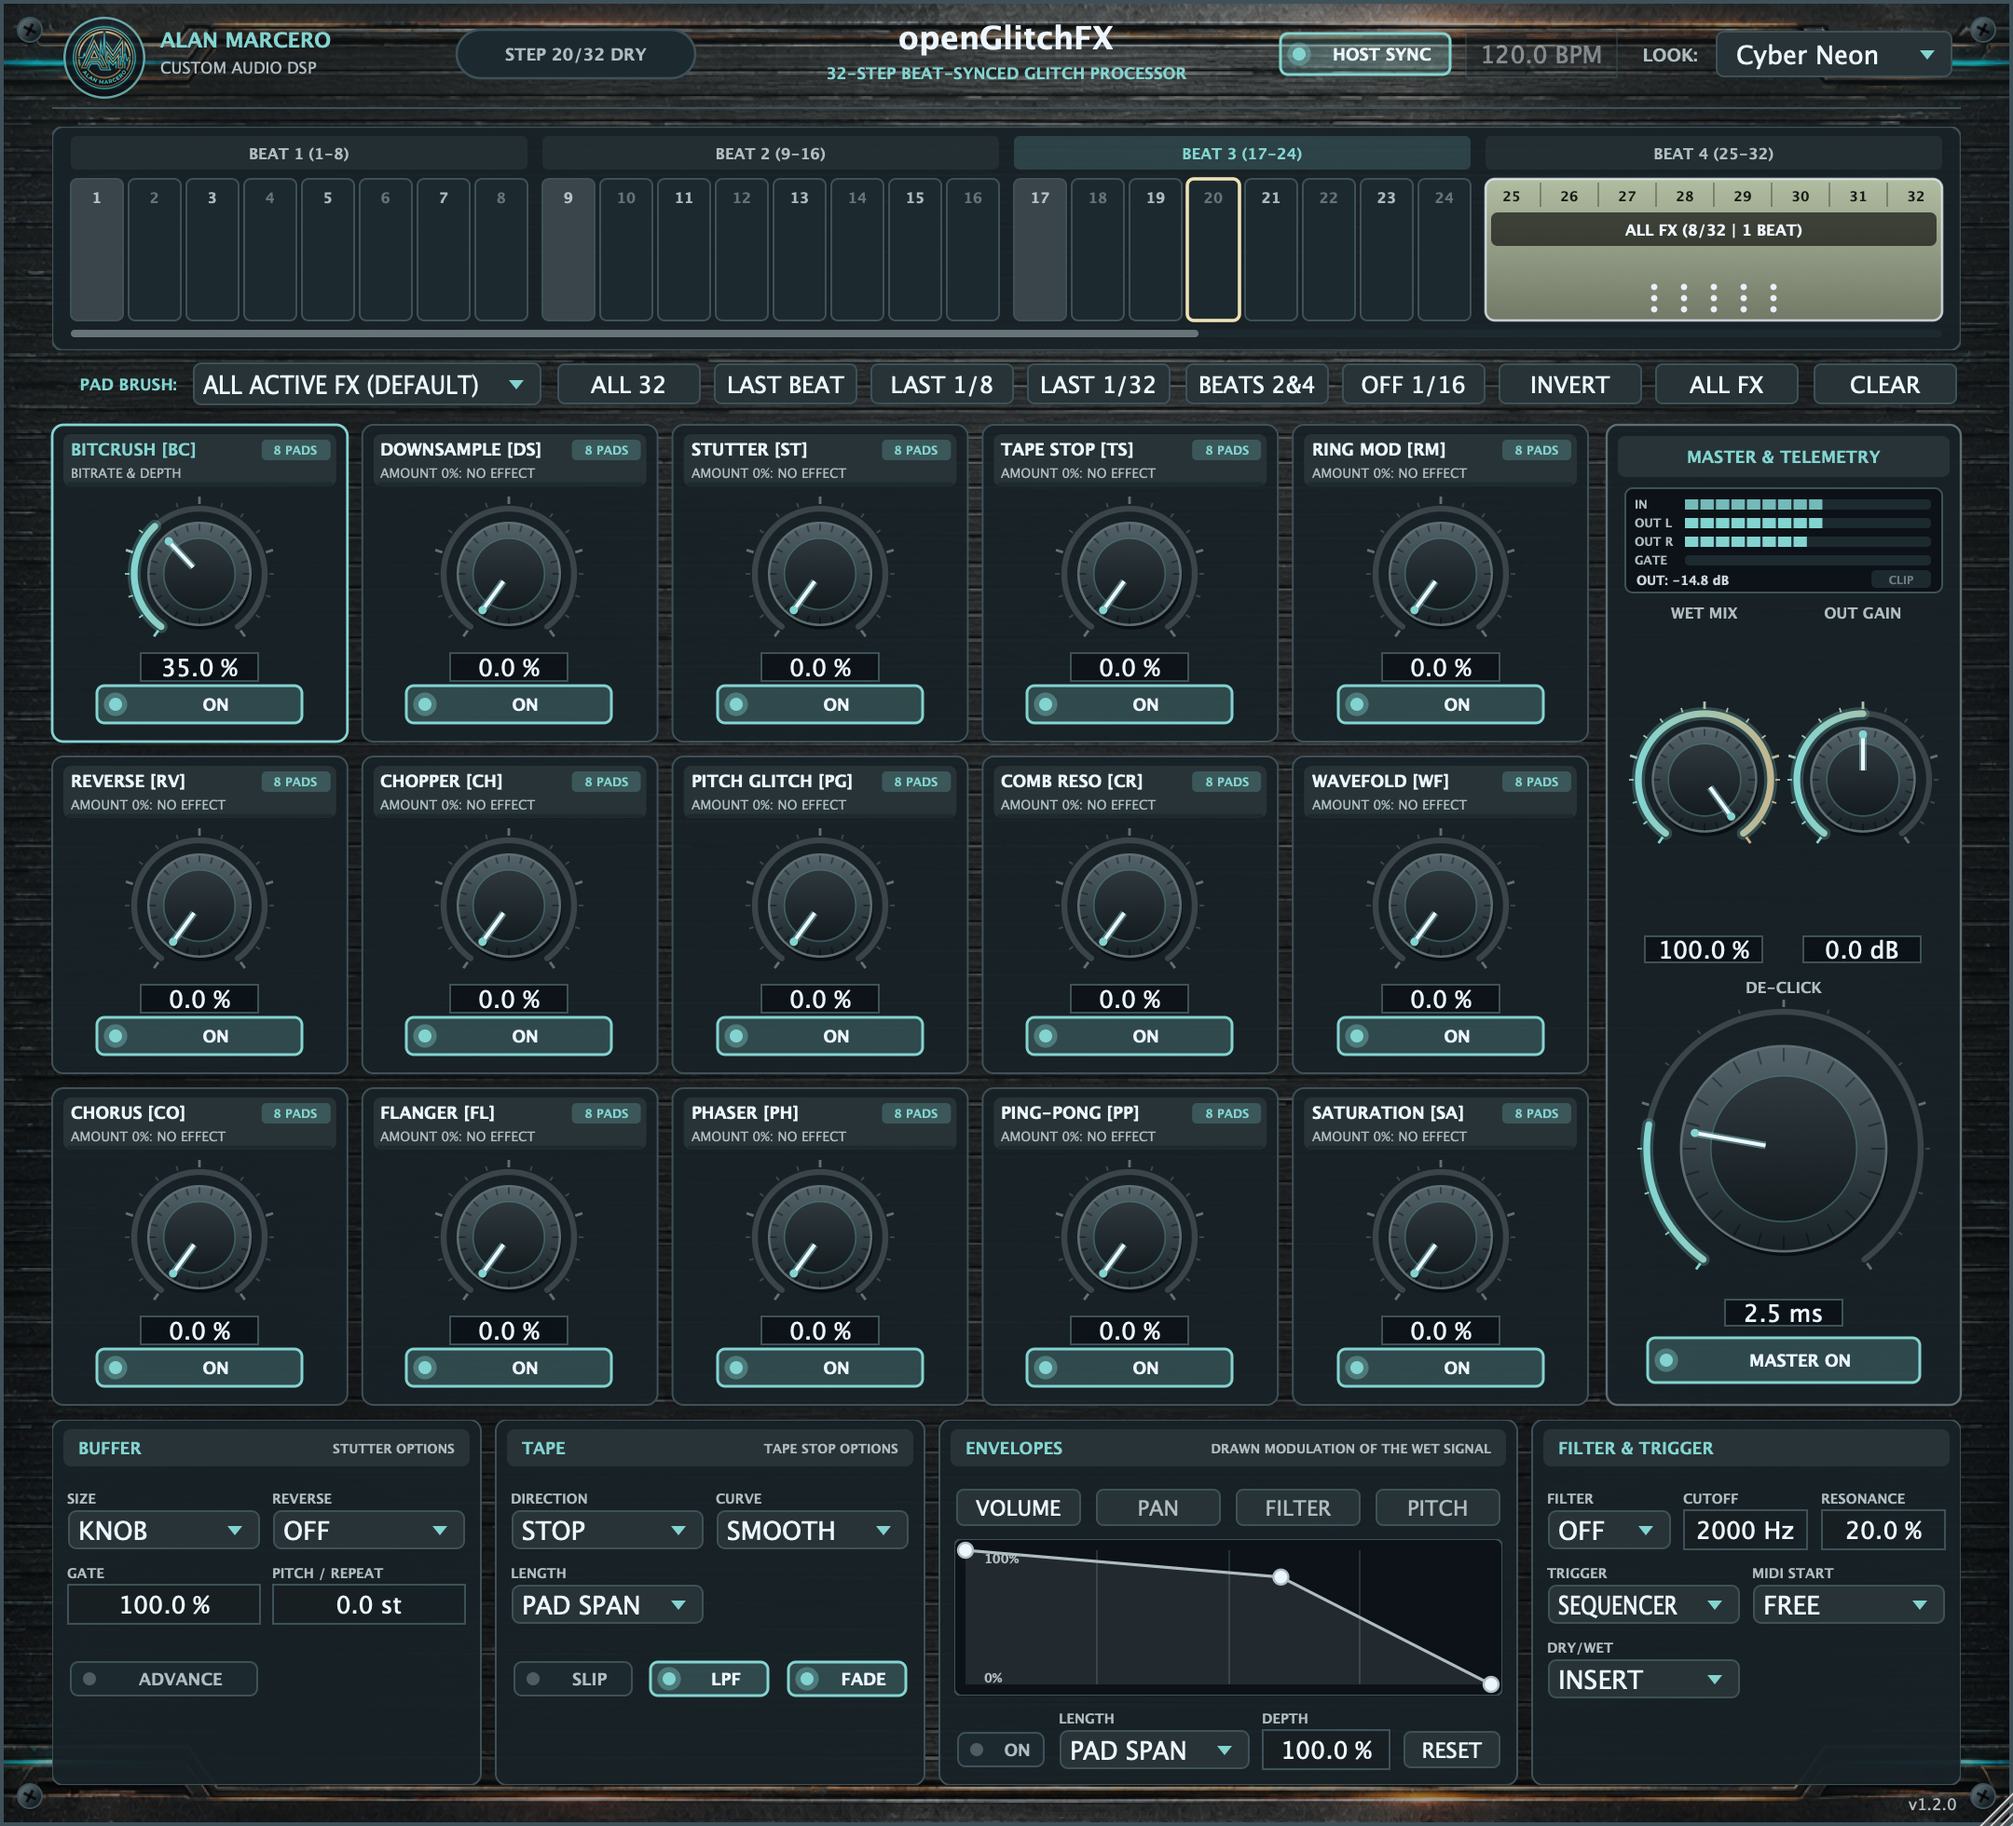
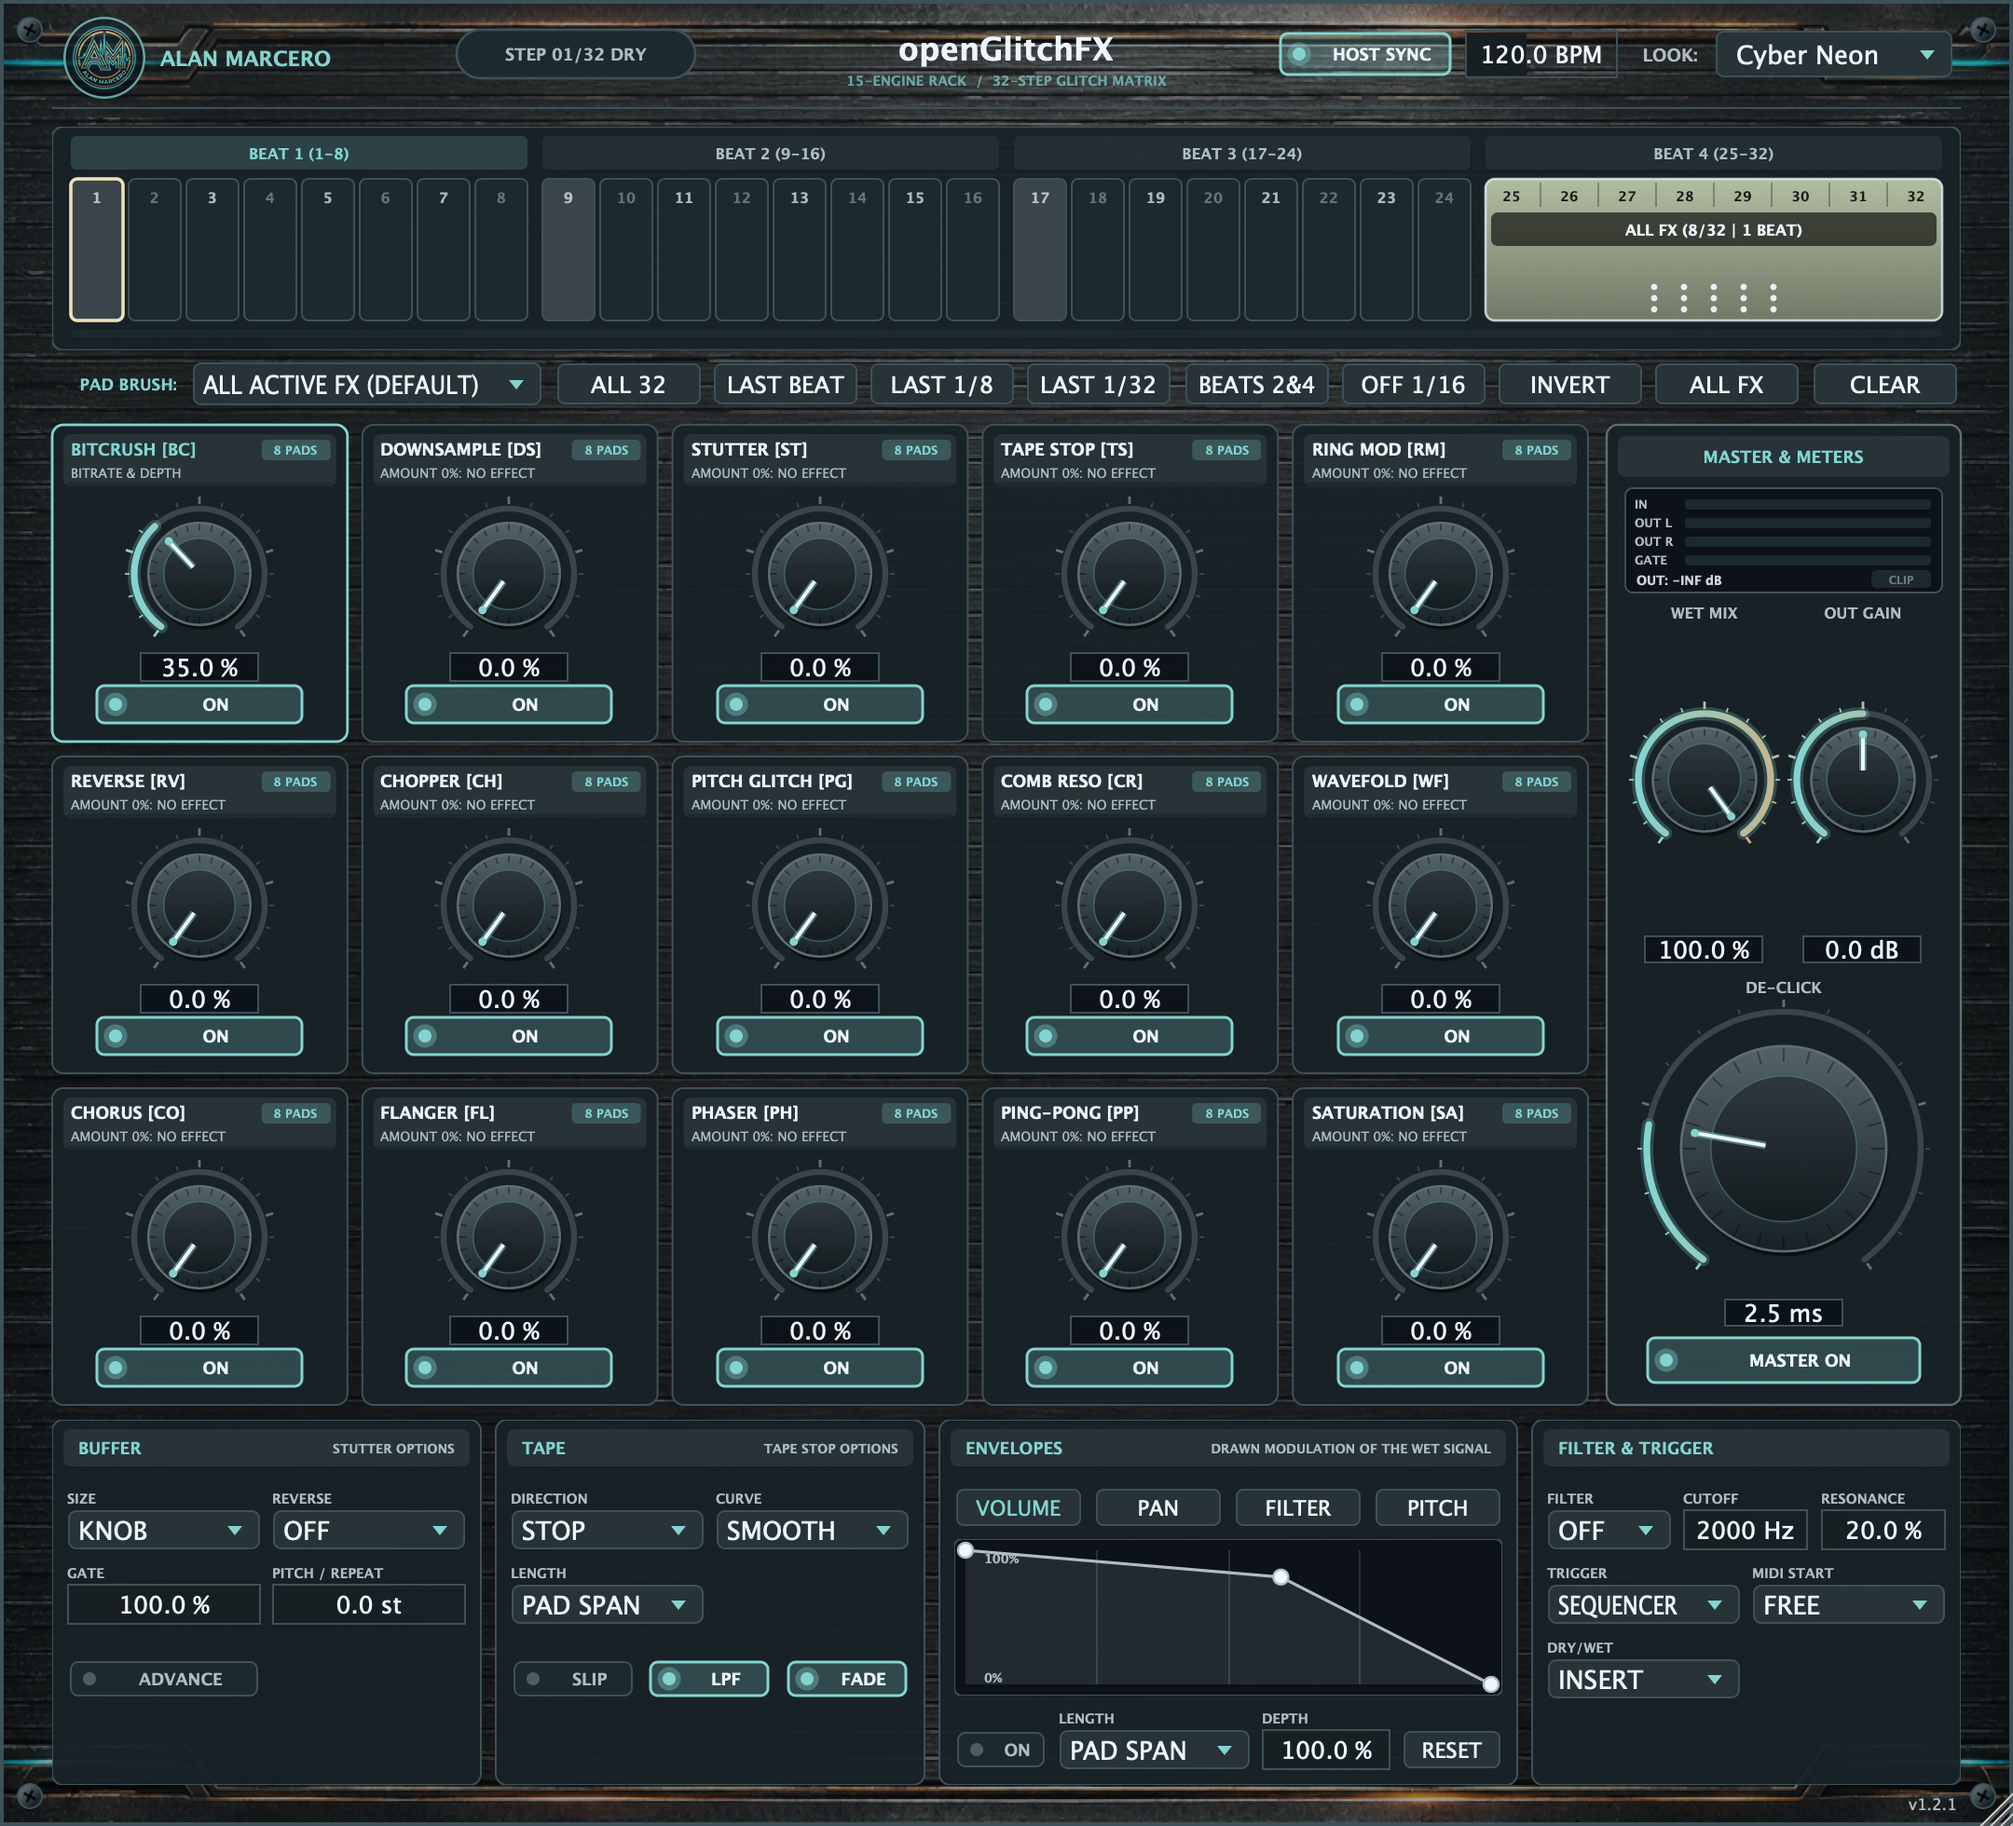
Warm ping-pong echo feedback saturation and add header matrix badge

diff --git a/Tests/PluginStateTests.cpp b/Tests/PluginStateTests.cpp
@@ -98,3 +98,21 @@ TEST_CASE("The host is told to render the enabled echo tail", "[plugin][tail]") 
     amount->setValueNotifyingHost(0.0f);
     REQUIRE_THAT(processor.getTailLengthSeconds(), Catch::Matchers::WithinAbs(0, 0));
 }
+
+TEST_CASE("Editor renders native UI screenshot", "[plugin][gui]") {
+    juce::ScopedJuceInitialiser_GUI gui;
+    OpenGlitchFXProcessor processor;
+    processor.prepareToPlay(48000, 512);
+    std::unique_ptr<juce::AudioProcessorEditor> editor(processor.createEditor());
+    REQUIRE(editor != nullptr);
+    const auto snapshot = editor->createComponentSnapshot(editor->getLocalBounds(), false, 2.0f);
+    REQUIRE(snapshot.isValid());
+    REQUIRE(snapshot.getWidth() == 2160);
+    REQUIRE(snapshot.getHeight() == 1960);
+    juce::File file = juce::File::getCurrentWorkingDirectory().getChildFile("assets/native-ui.png");
+    file.deleteFile();
+    juce::FileOutputStream stream(file);
+    REQUIRE(stream.openedOk());
+    juce::PNGImageFormat png;
+    REQUIRE(png.writeImageToStream(snapshot, stream));
+}

diff --git a/Source/Core/GlitchEffects.cpp b/Source/Core/GlitchEffects.cpp
@@ -836,8 +836,12 @@ void PingPongEchoEffect::processSample(float amount, double bpm, float& left, fl
     damp_[0] += damping * (dL - damp_[0]);
     damp_[1] += damping * (dR - damp_[1]);
     const float feedback = 0.2f + 0.55f * amt;
-    delay_[0][static_cast<size_t>(writePos_)] = 0.5f * (left + right) + feedback * std::tanh(damp_[1]);
-    delay_[1][static_cast<size_t>(writePos_)] = feedback * std::tanh(damp_[0]);
+    auto warmSaturate = [](float v) noexcept -> float {
+        const float s = std::tanh(v);
+        return s + 0.04f * s * std::abs(s);
+    };
+    delay_[0][static_cast<size_t>(writePos_)] = 0.5f * (left + right) + feedback * warmSaturate(damp_[1]);
+    delay_[1][static_cast<size_t>(writePos_)] = feedback * warmSaturate(damp_[0]);
     writePos_ = (writePos_ + 1) % static_cast<int>(delay_[0].size());
     left = left * (1.0f - 0.4f * amt) + dL * 0.6f * amt;
     right = right * (1.0f - 0.4f * amt) + dR * 0.6f * amt;

diff --git a/Source/Plugin/PluginEditor.cpp b/Source/Plugin/PluginEditor.cpp
@@ -293,7 +293,10 @@ void OpenGlitchFXEditor::paint(juce::Graphics& g) {
     // Center Plugin Title
     g.setColour(pal.textBright);
     g.setFont(juce::FontOptions(20.0f, juce::Font::bold));
-    g.drawText("openGlitchFX", static_cast<int>(w * 0.5f - 160.0f), 16, 320, 24, juce::Justification::centred);
+    g.drawText("openGlitchFX", static_cast<int>(w * 0.5f - 160.0f), 15, 320, 22, juce::Justification::centred);
+    g.setFont(juce::FontOptions(8.5f, juce::Font::bold));
+    g.setColour(pal.accentPrimary.withAlpha(0.70f));
+    g.drawText("15-ENGINE RACK  /  32-STEP GLITCH MATRIX", static_cast<int>(w * 0.5f - 160.0f), 37, 320, 12, juce::Justification::centred);
 
     // Live Gate Status Pill Indicator in Header
     const auto tel = processor_.getTelemetry();

diff --git a/README.md b/README.md
@@ -4,7 +4,7 @@
 
 ![openGlitchFX native editor](assets/native-ui.png)
 
-*Captured from the native v1.2.0 VST3 editor. [Capture details and provenance](docs/SCREENSHOTS.md).*
+*Captured from the native v1.2.1 VST3 editor. [Capture details and provenance](docs/SCREENSHOTS.md).*
 
 Beat-synced glitch processor with 15 effects and a 32-step sequencer. Pads that are on process audio. The rest pass dry. Output trim still applies to the dry signal. Transitions are smoothed.
 
@@ -15,12 +15,6 @@ Beat-synced glitch processor with 15 effects and a 32-step sequencer. Pads that 
 The native editor has four selectable color themes: **Cyber Neon** (default), **Industrial Amber**, **Acid Matrix**, and **Arctic Glitch**. The theme is saved with the session and can be automated.
 
 ### Hardware inspiration
-
-These generated concept images show the hardware inspiration and branding; they are not plugin screenshots.
-
-| Studio hardware concept | Alan Marcero emblem |
-| :---: | :---: |
-| ![Studio hardware concept](assets/studio_hardware.jpg) | <img src="assets/alan_marcero_logo.jpg" width="280" alt="Alan Marcero emblem" /> |
 
 ---
 
